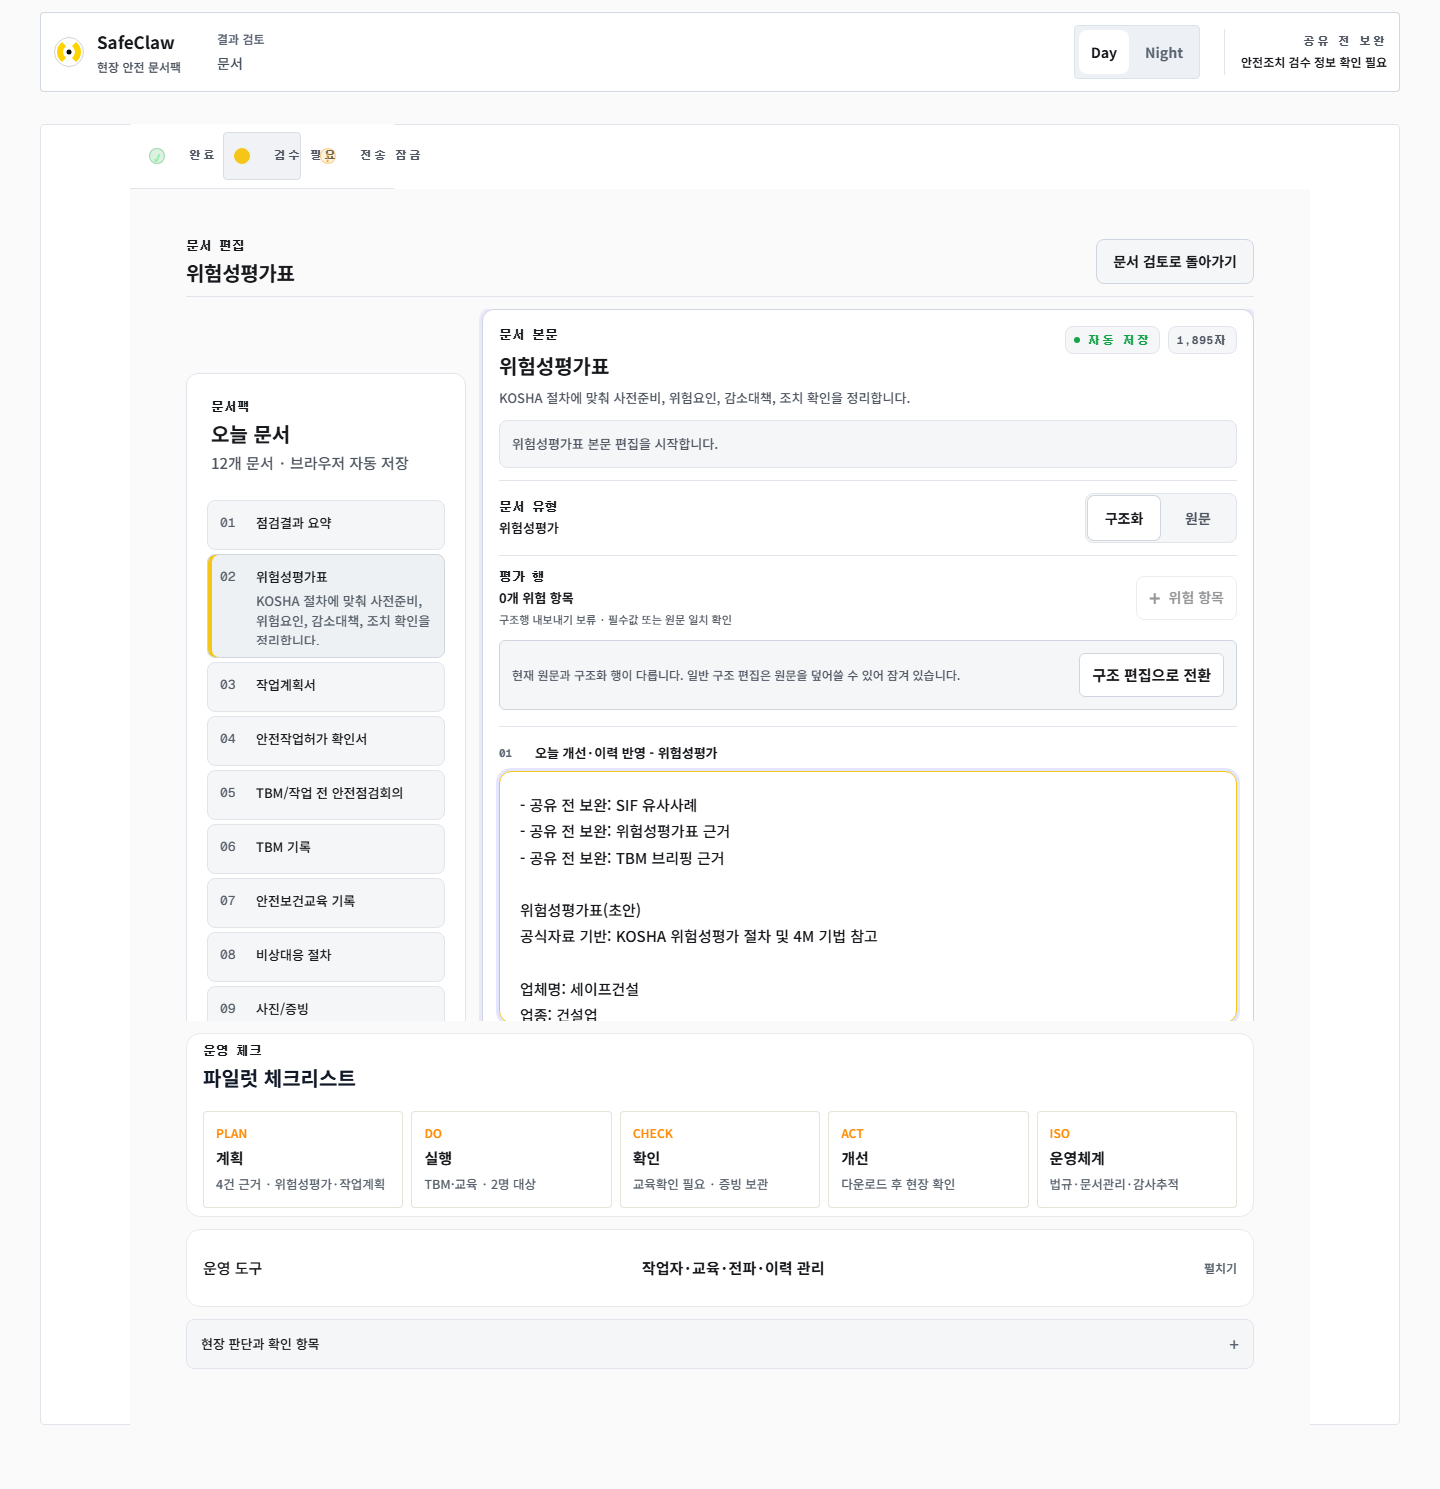
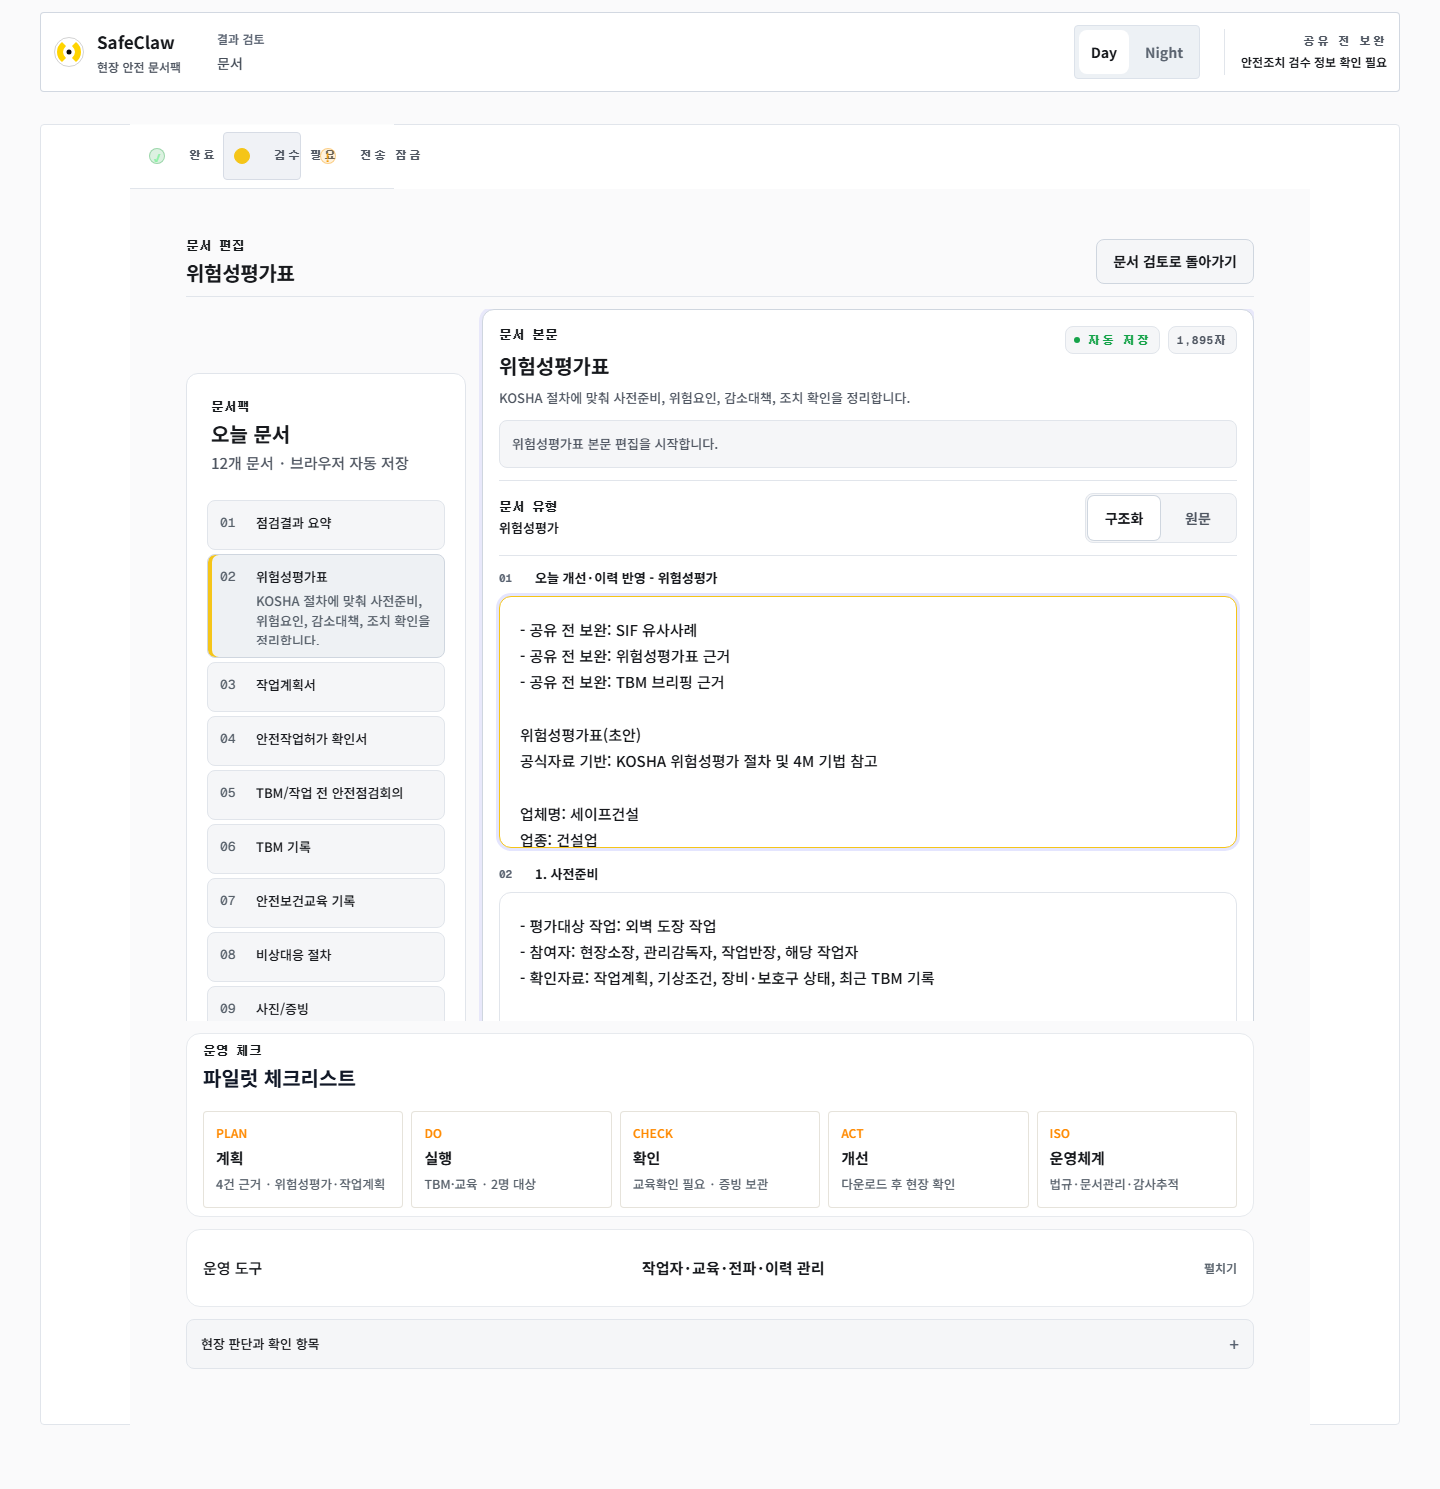
chore: record edit-first workspace live geometry

diff --git a/evaluation/workspace-docs-share-production-gate-2026-07-20/current-verdict.md b/evaluation/workspace-docs-share-production-gate-2026-07-20/current-verdict.md
@@ -4,35 +4,35 @@ Checked at: 2026-07-20 KST
 
 ## Verdict
 
-**PARTIALLY FIXED.**
+**FIXED for the original Documents/Share geometry blocker, with a remaining product-depth follow-up.**
 
-The current production surface no longer reproduces the old launch blocker for the default document review stage or the share desktop breakpoint. However, after the user clicks `편집`, the document editor still becomes a long single-page editing surface. If the user is seeing the broken/long behavior in edit mode, that is not stale cache. It is still present on the current authoritative production commit.
+The current production surface no longer reproduces the old launch blocker for the default document review stage, the share desktop breakpoint, or the edit-mode first-action placement. The editor still has a long full document surface below the fold, but the first editable body now appears in the first viewport instead of being pushed below a risk-row editor.
 
 ## Authoritative Surface
 
-- Git HEAD used for source comparison: `367d71b7350ed2fd44f2afe90777e70aae13647d`
+- Git HEAD used for source comparison: `b1ec3635dbc0f60b4964ee5befbe2e03d311813f`
 - Served URL: `https://www.safeclaw.kr/workspace`
 - Build info endpoint: `https://www.safeclaw.kr/api/build-info`
-- Served commit: `367d71b7350ed2fd44f2afe90777e70aae13647d`
+- Served commit: `b1ec3635dbc0f60b4964ee5befbe2e03d311813f`
 - Served branch: `master`
-- Deployment URL: `safeguard-contest-79i90cj2y-seojaehongs-projects.vercel.app`
+- Deployment URL: `safeguard-contest-5yybjwagl-seojaehongs-projects.vercel.app`
 
 ## Results
 
 | Viewport | Stage | Page height | Stage y | Stage height | Key result |
 | --- | --- | ---: | ---: | ---: | --- |
 | 1440x900 | Documents review | 1149 | 229 | 800 | Fixed versus prior 2070px/723px sticky report |
-| 1440x900 | Document edit | 1489 | 63 editor y | 2561 editor height | Still too long; sticky editor navigator remains |
+| 1440x900 | Document edit | 1489 | 63 editor y / 350 textarea y | 2561 editor height | Improved; editable body is now first-viewport visible |
 | 1440x900 | Share | 1174 | 189 | 921 | Fixed; 1180px desktop surface, not mobile-card width |
 | 390x844 | Documents review | 1417 | 262 | 1050 | Acceptable as a compact step, no horizontal overflow |
-| 390x844 | Document edit | 1152 | 84 editor y / 632 textarea y | 2696 editor height | Partially improved; no overlap, but first editable body still starts low |
+| 390x844 | Document edit | 1152 | 84 editor y / 407 textarea y | 2696 editor height | Fixed versus the late first-body blocker; textarea starts in the first viewport |
 | 390x844 | Share | 1487 | 244 | 1138 | Not the old 3836px share body; one primary CTA, no horizontal overflow |
 
 ## Interpretation
 
 The staged `입력 -> 문서 -> 공유` routing is now real in the default flow: only one of input, documents, or share is visible at a time. The old share desktop problem is also fixed on current production because the share surface is 1180px wide at 1440px desktop.
 
-The remaining blocker is narrower and more concrete: the document edit mode is not yet brought into the same compact stage contract. The editor includes a long editing surface and supporting chrome after the user clicks `편집`. On mobile, the textarea begins at y=632 in an 844px viewport, while the editor surface itself measures 2696px high. That is substantially better than the previous overlap failure, but it can still feel like the old long-page behavior once edit mode opens.
+The bounded edit remediation moved the 위험성평가 구조화 행 editor below the document body. On mobile, the first textarea now begins at y=407 in an 844px viewport; on desktop it begins at y=350. This closes the "편집 후 첫 행동이 아래로 밀리는" geometry issue while preserving the structured risk-row editor, provenance drawers, and export tools below the main body.
 
 ## Evidence
 
@@ -77,13 +77,13 @@ Verification:
 
 ## Post-Deploy Verification
 
-After commit `367d71b7350ed2fd44f2afe90777e70aae13647d` was deployed to production, the same geometry probe was rerun against `https://www.safeclaw.kr`.
+After commit `b1ec3635dbc0f60b4964ee5befbe2e03d311813f` was deployed to production, the same geometry probe was rerun against `https://www.safeclaw.kr`.
 
-- Served commit: `367d71b7350ed2fd44f2afe90777e70aae13647d`
+- Served commit: `b1ec3635dbc0f60b4964ee5befbe2e03d311813f`
 - Desktop documents review: page height 1149, horizontal overflow false
 - Desktop share: 1180px share surface, one primary CTA, horizontal overflow false
 - Mobile documents review: page height 1417, horizontal overflow false
-- Mobile document edit: page height 1152, horizontal overflow false, no sticky/fixed overlap detected, but first textarea y=632 remains low
+- Mobile document edit: page height 1152, horizontal overflow false, no sticky/fixed overlap detected, first textarea y=407
 - Mobile share: page height 1487, one primary CTA, horizontal overflow false
 
 Raw evidence was refreshed in `current-geometry.json` and the `*-current-*.png` screenshots.
